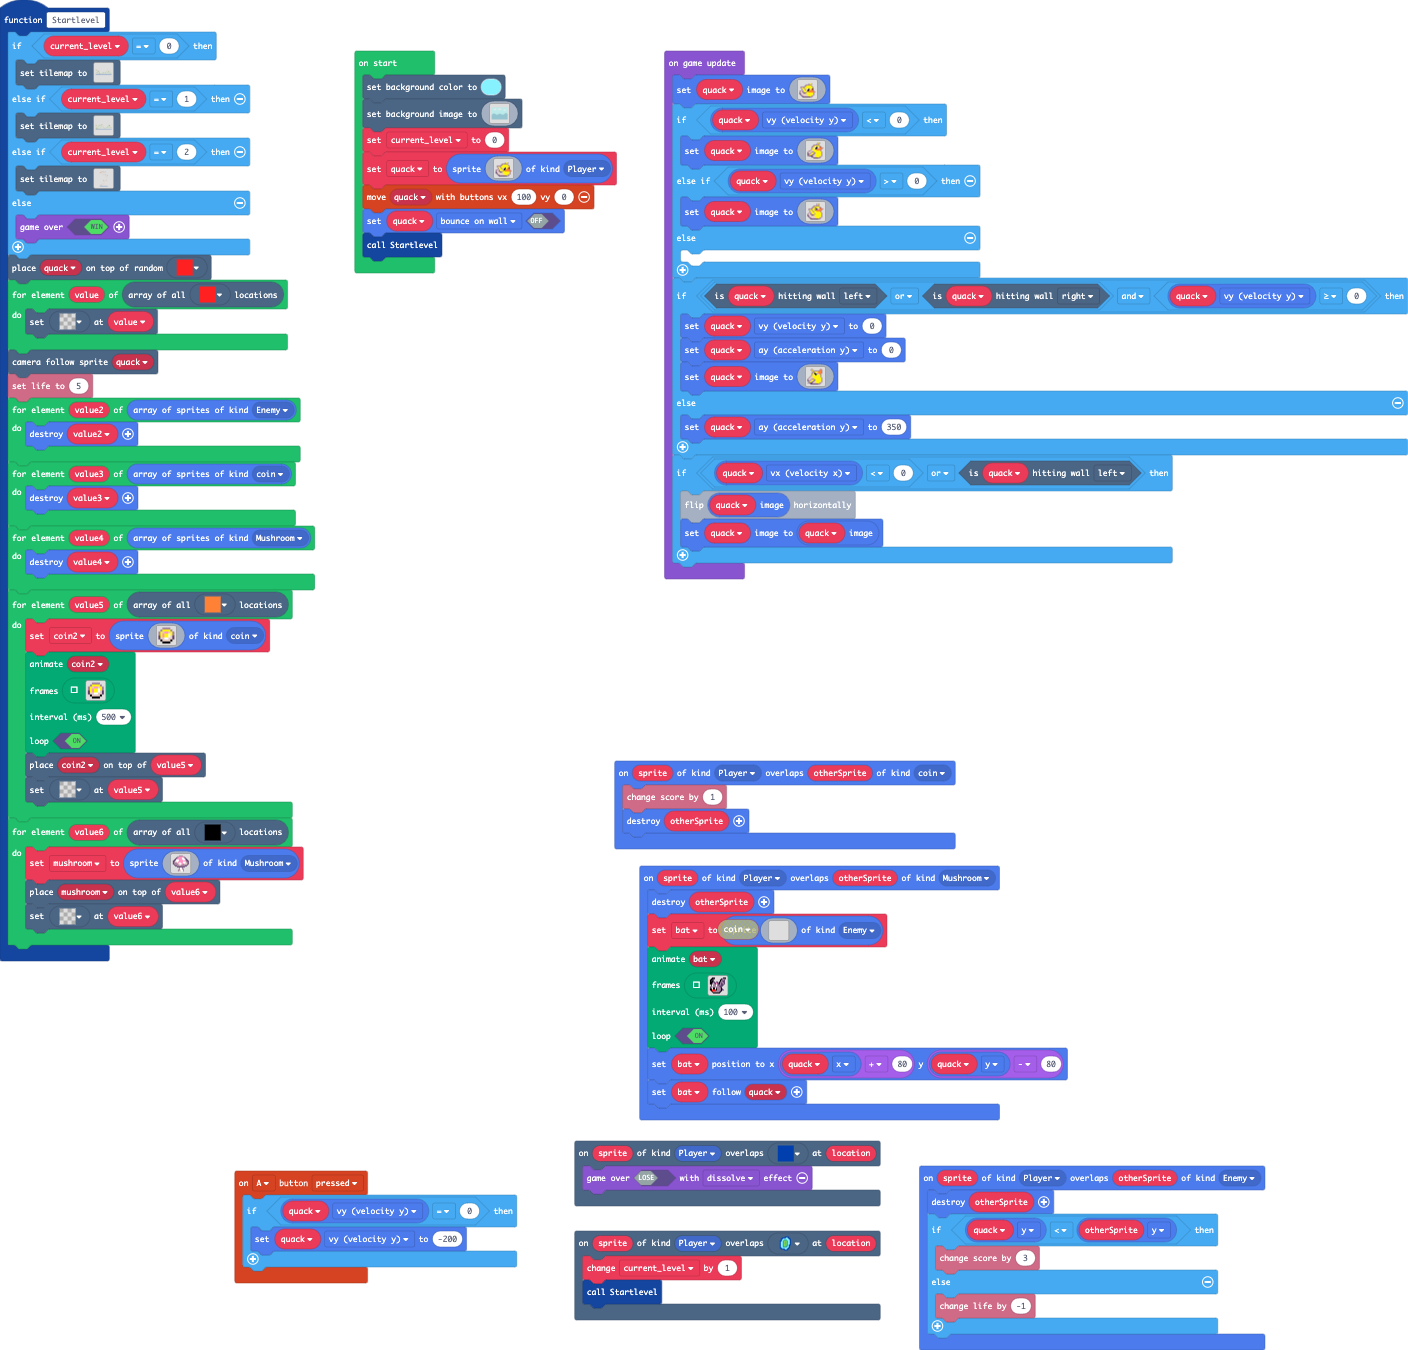
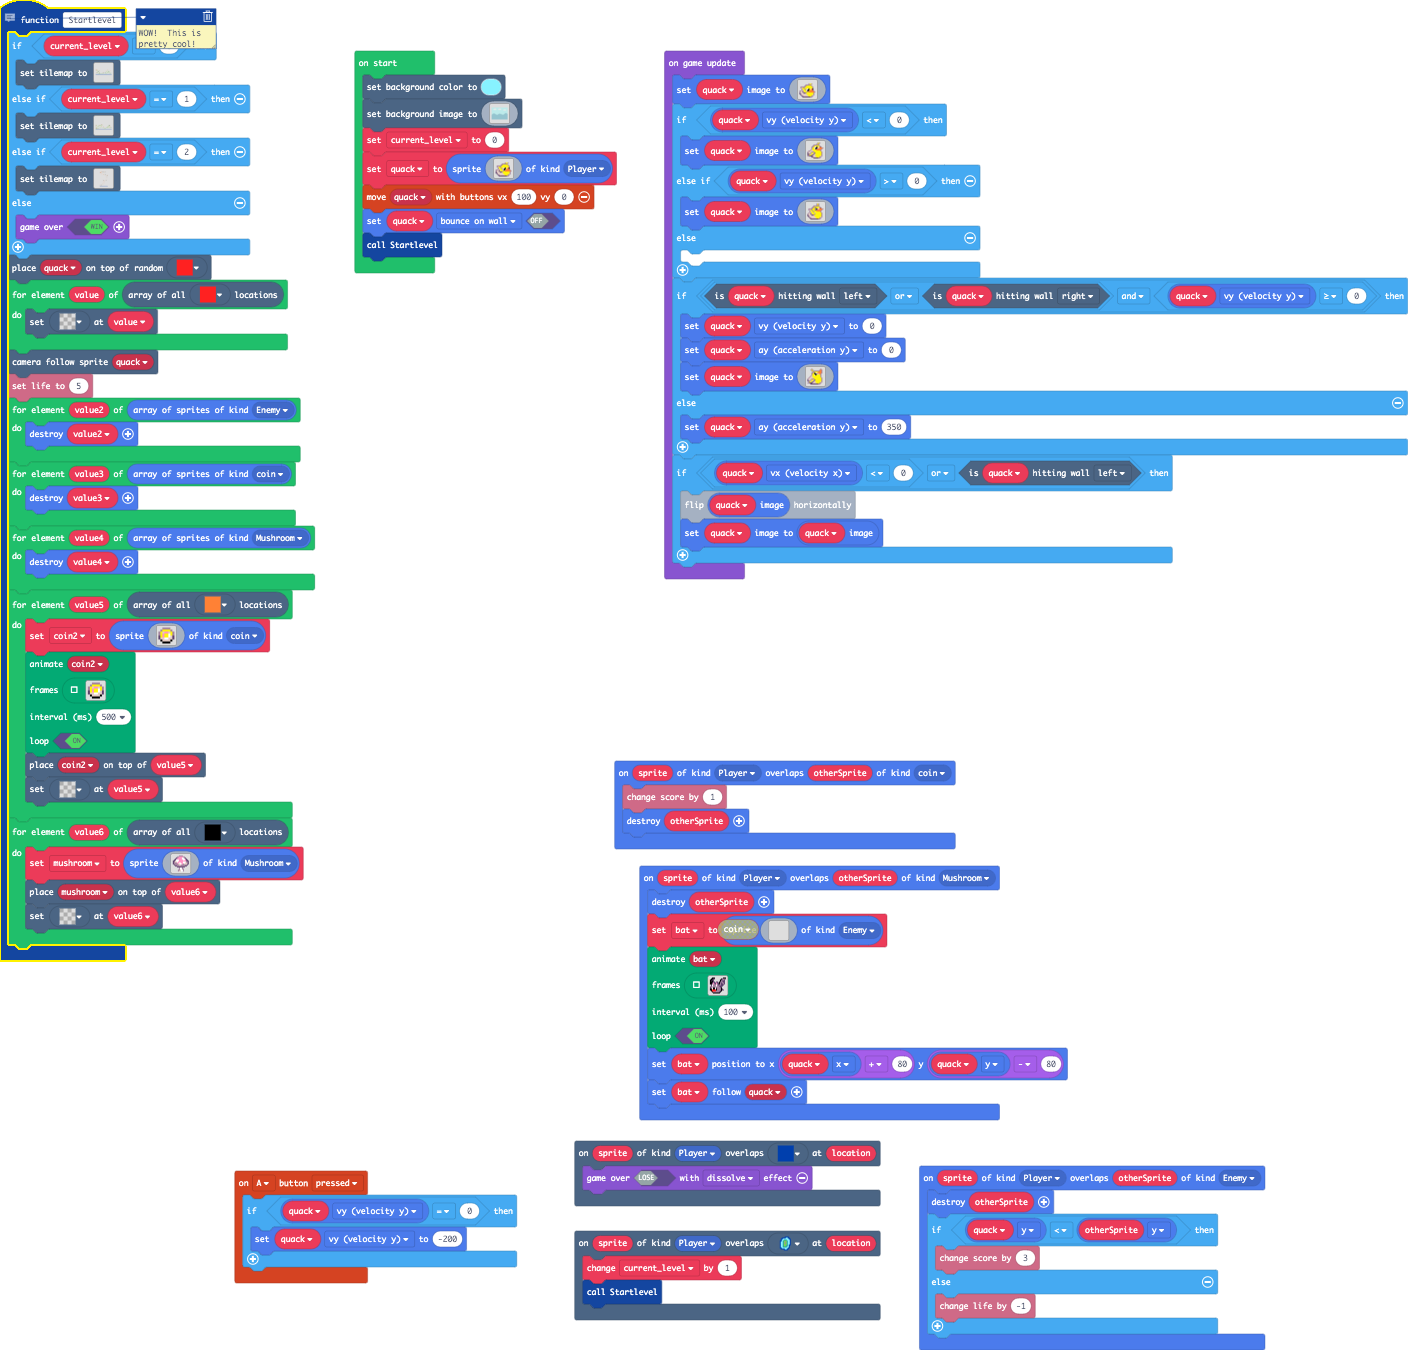
Update main.blocks, main.ts

diff --git a/main.ts b/main.ts
@@ -279,6 +279,8 @@ scene.onOverlapTile(SpriteKind.Player, myTiles.tile16, function (sprite, locatio
     current_level += 1
     Startlevel()
 })
+// WOW!  This is pretty cool!  Keep going with this! 
+// Awesome work!!!!!!!!!
 function Startlevel () {
     if (current_level == 0) {
         tiles.setTilemap(tiles.createTilemap(
